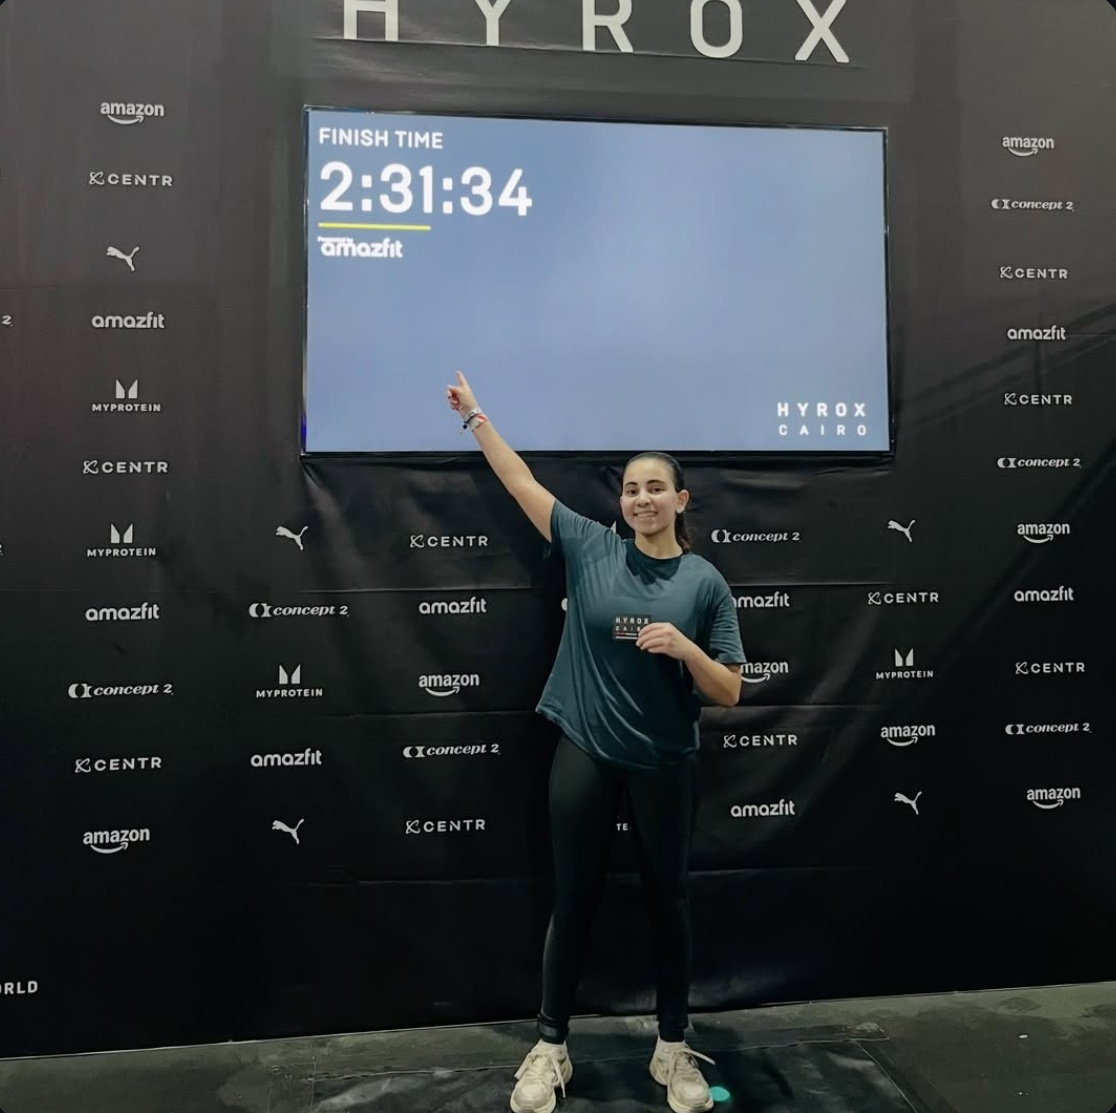
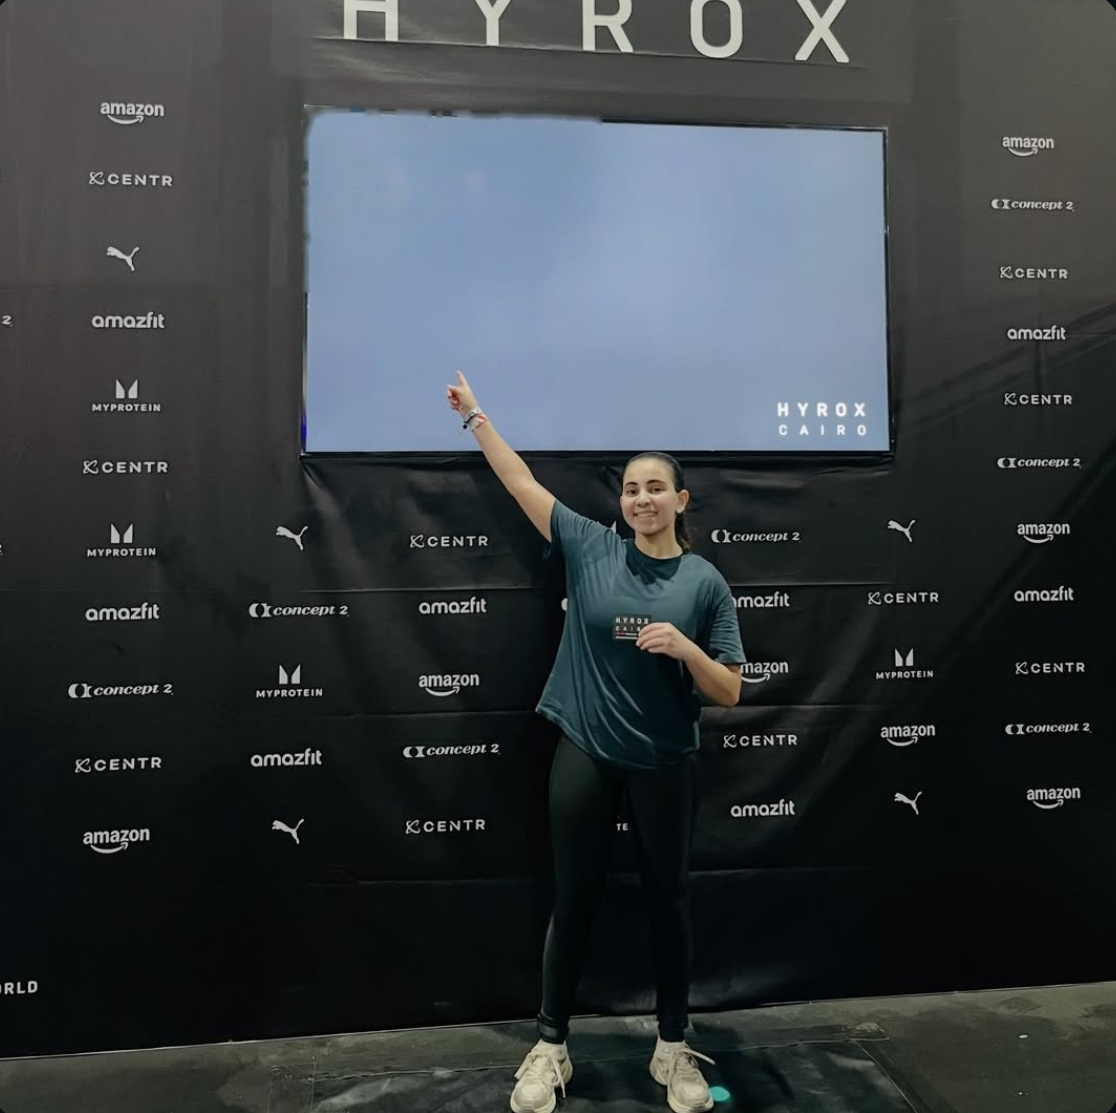
Hla Moataz post: remove finish time
Claude-Session: https://claude.ai/code/session_01S3ChKFh5yz7vU8VsDH4XAg

Changed region(s): [[0.2742, 0.0916, 0.5484, 0.2444]]

diff --git a/athletes/hla-moataz/post.html b/athletes/hla-moataz/post.html
@@ -26,12 +26,10 @@ body{width:1080px;height:1350px;position:relative;overflow:hidden;background:#f6
 <div class="a tag">HYROX <b>FINISHER</b></div>
 <div class="a slab"></div>
 <div class="a photo"><img src="photo.jpg"></div>
-<div class="a lbl" style="top:240px;font-size:36px;letter-spacing:6px;color:var(--gd)">FINISH TIME</div>
-<div class="a time">2:31:34</div>
-<div class="a lbl" style="top:520px;font-size:62px;font-style:italic;letter-spacing:-1px;line-height:1.1">SOLO <span style="background:var(--g);padding:0 14px">RACE</span></div>
-<div class="a lbl" style="top:600px;font-size:62px;font-style:italic;letter-spacing:-1px">CRUSHED IT. 🏁</div>
-<div class="a lbl" style="top:760px;font-size:30px;letter-spacing:6px;color:#555">HYROX CAIRO</div>
-<div class="a lbl" style="top:810px;font-size:30px;letter-spacing:6px;color:#555">SOLO DIVISION</div>
+<div class="a lbl" style="top:330px;font-size:72px;font-style:italic;letter-spacing:-1px;line-height:1.1">SOLO <span style="background:var(--g);padding:0 14px">RACE</span></div>
+<div class="a lbl" style="top:430px;font-size:72px;font-style:italic;letter-spacing:-1px">CRUSHED IT.</div>
+<div class="a lbl" style="top:580px;font-size:30px;letter-spacing:6px;color:#555">HYROX CAIRO</div>
+<div class="a lbl" style="top:630px;font-size:30px;letter-spacing:6px;color:#555">SOLO DIVISION</div>
 <div class="a band"></div>
 <div class="a name">HLA <em>MOATAZ</em></div>
 <div class="a foot"><span><b>X7PLUS</b> ATHLETE</span><span>#X7PLUS_ATHLETES</span></div>
